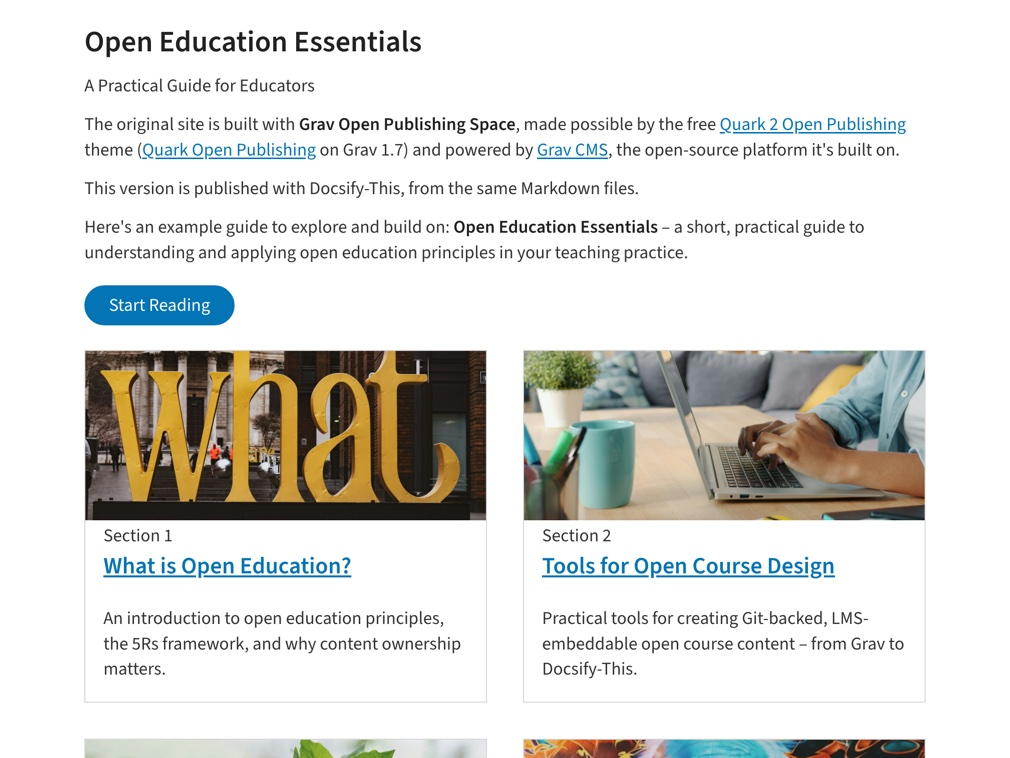
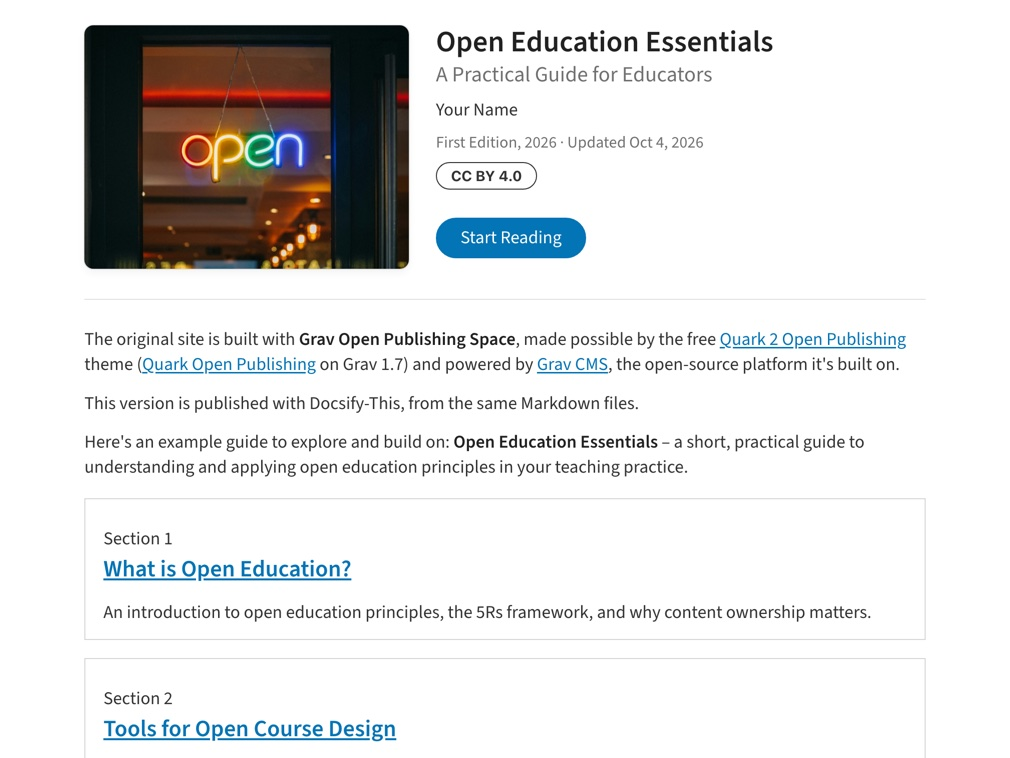
New screenshots for the Guide Site and Guide Site with Image Cards templates.

diff --git a/docs/README.md b/docs/README.md
@@ -1417,7 +1417,7 @@ Guide Site [home.md](https://github.com/hibbitts-design/docsify-this-guide-site/
 
 <div class="docsifythiscolumn35" >
 
-[![Guide Site with Image Cards](images/docsify-this-guide-site.jpg ":class=docsify-this-screenshot")](https://docsify-this.net?basePath=https://raw.githubusercontent.com/hibbitts-design/docsify-this-guide-site-image-cards/main&homepage=home.md&sidebar=true&loadSidebar=_sidebar.md&collapsibleSidebarGroups=true&name=Open%20Education%20Essentials&dark-mode=auto&pagination=true&searchbox=true)
+[![Guide Site with Image Cards](images/docsify-this-guide-site-image-cards.jpg ":class=docsify-this-screenshot")](https://docsify-this.net?basePath=https://raw.githubusercontent.com/hibbitts-design/docsify-this-guide-site-image-cards/main&homepage=home.md&sidebar=true&loadSidebar=_sidebar.md&collapsibleSidebarGroups=true&name=Open%20Education%20Essentials&dark-mode=auto&pagination=true&searchbox=true)
 
 </div>
 

diff --git a/README.md b/README.md
@@ -980,7 +980,7 @@ To edit a file in GitHub, tap the **Pencil** icon (Edit file) in the upper-right
 
 ##### Guide Site with Image Cards Template
 
-![Docsify-This Guide Site with Image Cards](docs/images/docsify-this-guide-site-readme.jpg)
+![Docsify-This Guide Site with Image Cards](docs/images/docsify-this-guide-site-image-cards-readme.jpg)
 
 [Guide Site with Image Cards Template](https://github.com/hibbitts-design/docsify-this-guide-site-image-cards) with [home.md](https://github.com/hibbitts-design/docsify-this-guide-site-image-cards/blob/main/home.md) file, including the use of the `card-list-sections` card list (a picture on each section card), and a Docsify custom [Sidebar](https://github.com/hibbitts-design/docsify-this-guide-site-image-cards/blob/main/_sidebar.md) with collapsible sidebar groups, displayed by Docsify-This as:
 
